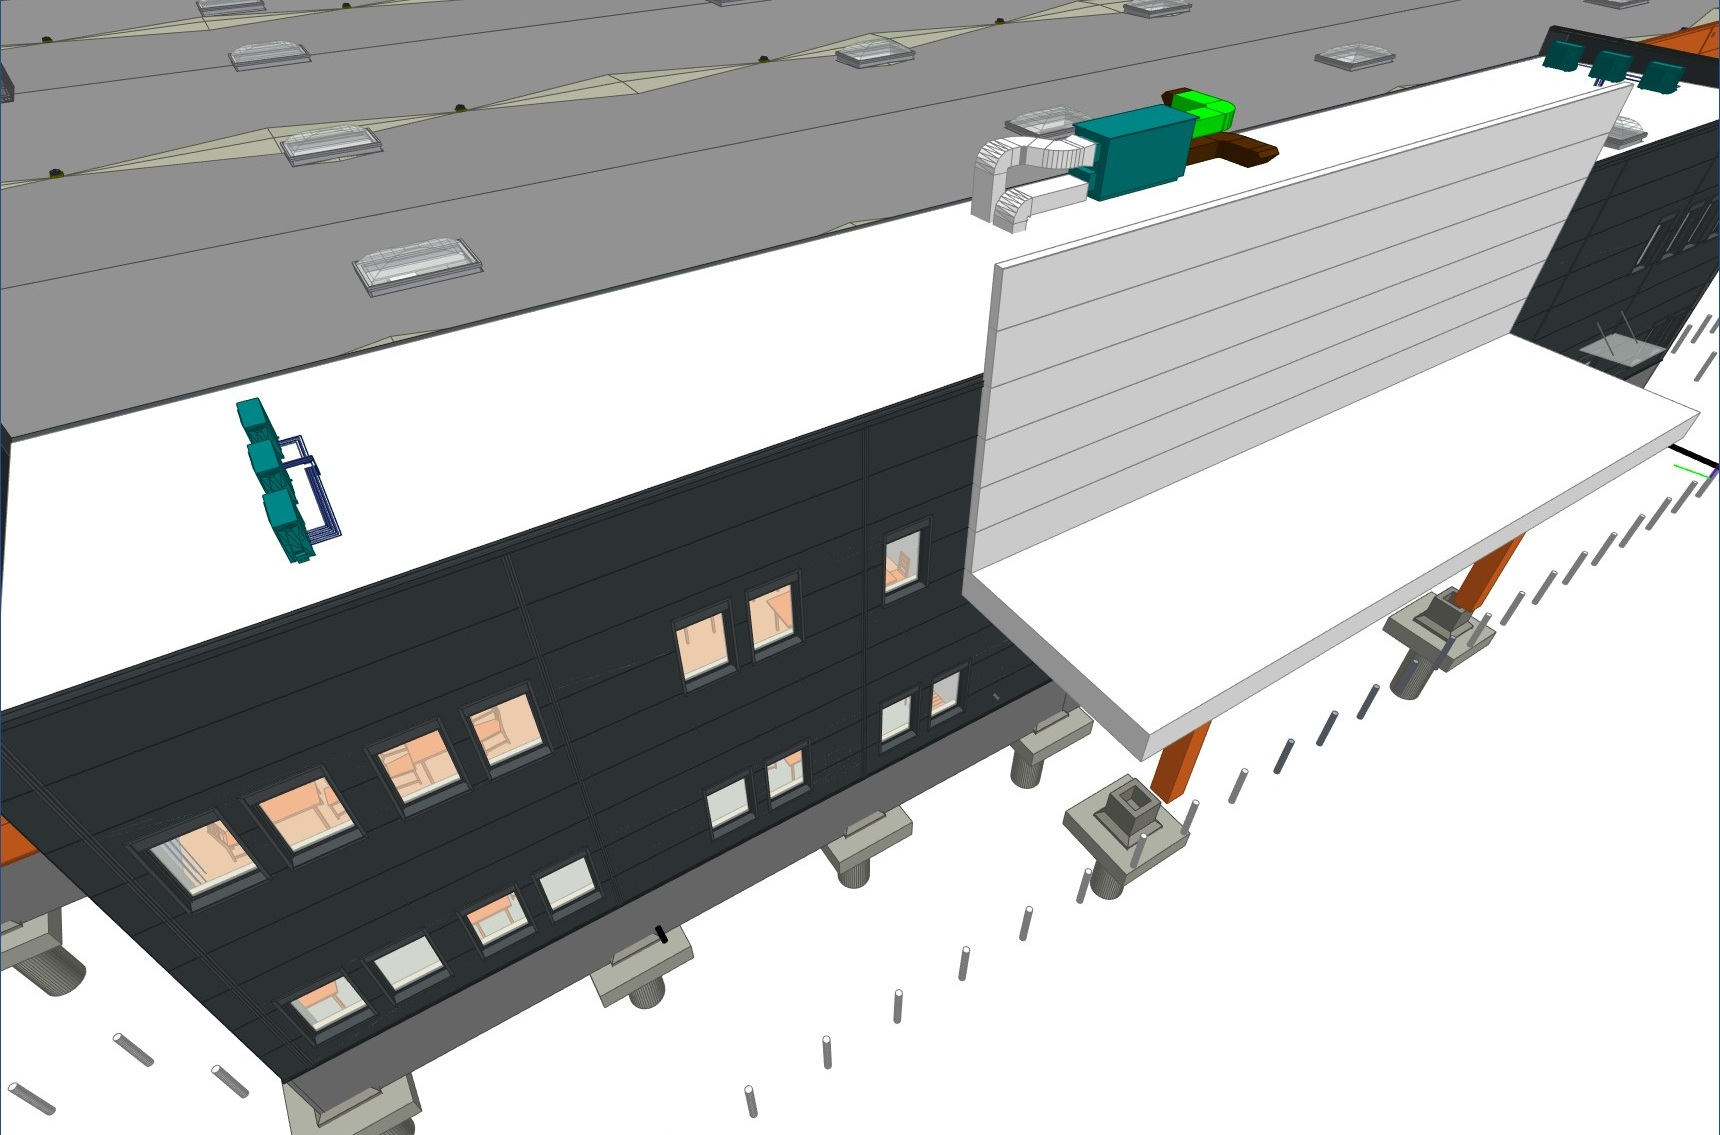
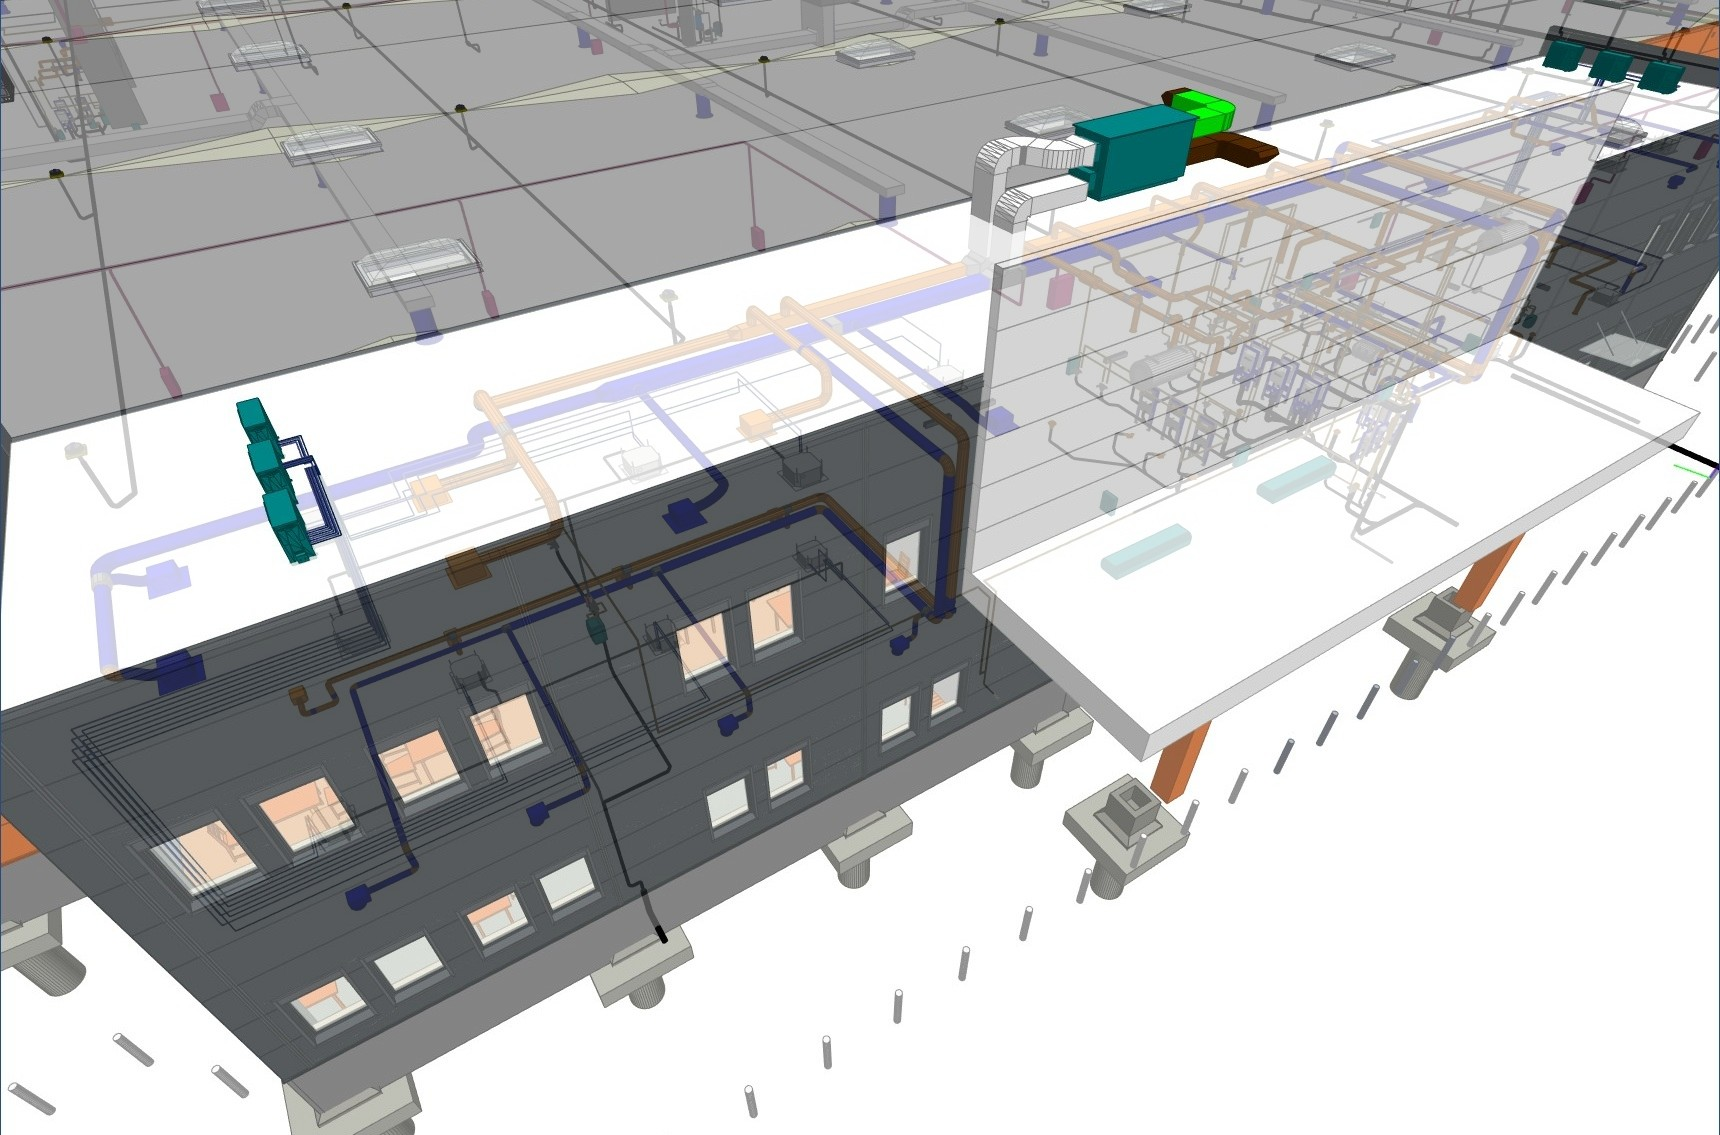
Rendszeroptimalizálás önálló kártyába emelve; BIM-koordináció fotók 20%-os kereszt-blendeléssel (építész+gépész áttűnés)

diff --git a/index.html b/index.html
@@ -444,36 +444,35 @@
      ============================================================ -->
 <section id="markak" class="py-14 lg:py-16 border-y border-line/60 bg-surface/40">
   <div class="max-w-8xl mx-auto px-5 lg:px-8">
-    <div class="flex flex-col lg:flex-row lg:items-center gap-8" data-reveal>
-      <!-- Rendszeroptimalizálás – ISO 52120, márkanév nélkül -->
-      <div class="shrink-0 lg:max-w-xs lg:pr-8 lg:border-r border-line">
-        <div class="flex items-center gap-4">
-          <div class="w-12 h-12 rounded-lg bg-accent/10 grid place-items-center shrink-0">
-            <svg width="22" height="22" fill="none" stroke="currentColor" stroke-width="1.6" viewBox="0 0 24 24"><path d="M12 2v4M12 18v4M4.9 4.9l2.8 2.8M16.3 16.3l2.8 2.8M2 12h4M18 12h4M4.9 19.1l2.8-2.8M16.3 7.7l2.8-2.8"/><circle cx="12" cy="12" r="3.5"/></svg>
-          </div>
-          <div>
-            <div class="font-display font-semibold">Rendszeroptimalizálás</div>
-            <div class="text-xs text-muted font-display tracking-wide">EN ISO 52120-1 szabvány szerint</div>
-          </div>
-        </div>
-        <p class="text-xs text-muted leading-relaxed mt-4">
-          Meglévő épületek fűtési, hűtési és szellőzési rendszereinek szabályozástechnikai
-          felülvizsgálatát és optimalizálását vállaljuk, gyártótól függetlenül, az EN ISO 52120-1
-          szabvány szerint. A felmérés kitér a jelenlegi és az elérhető hatékonysági osztályra,
-          és konkrét modernizációs javaslatokat ad — például nyomásfüggetlen szelepek,
-          igényvezérelt szabályozás, szivattyú-optimalizálás.
-        </p>
-      </div>
 
-      <!-- Alkalmazott technológiák – futószalag (JS tölti fel a 42 márkával) -->
-      <div class="flex-1 min-w-0">
-        <p class="text-xs text-muted mb-3">Rendszerek, melyekkel a legmagasabb mérnöki színvonalon tervezünk.</p>
-        <div class="marquee relative">
-          <div id="brandTrack" class="marquee__track gap-10 pr-10 text-muted/70 font-display font-semibold text-lg"></div>
-          <!-- Szélek elhalványítása -->
-          <div class="absolute inset-y-0 left-0 w-16 bg-gradient-to-r from-base to-transparent pointer-events-none"></div>
-          <div class="absolute inset-y-0 right-0 w-16 bg-gradient-to-l from-base to-transparent pointer-events-none"></div>
+    <!-- Rendszeroptimalizálás – önálló kártya, ISO 52120, márkanév nélkül -->
+    <div class="card rounded-xl p-6 lg:p-8" data-reveal>
+      <div class="flex items-center gap-4 mb-4">
+        <div class="w-12 h-12 rounded-lg bg-accent/10 grid place-items-center shrink-0">
+          <svg width="22" height="22" fill="none" stroke="currentColor" stroke-width="1.6" viewBox="0 0 24 24"><path d="M12 2v4M12 18v4M4.9 4.9l2.8 2.8M16.3 16.3l2.8 2.8M2 12h4M18 12h4M4.9 19.1l2.8-2.8M16.3 7.7l2.8-2.8"/><circle cx="12" cy="12" r="3.5"/></svg>
         </div>
+        <div>
+          <p class="eyebrow">Rendszeroptimalizálás</p>
+          <p class="text-xs text-muted font-display tracking-wide mt-0.5">EN ISO 52120-1 szabvány szerint</p>
+        </div>
+      </div>
+      <p class="text-sm text-muted leading-relaxed">
+        Meglévő épületek fűtési, hűtési és szellőzési rendszereinek szabályozástechnikai
+        felülvizsgálatát és optimalizálását vállaljuk, gyártótól függetlenül, az EN ISO 52120-1
+        szabvány szerint. A felmérés kitér a jelenlegi és az elérhető hatékonysági osztályra,
+        és konkrét modernizációs javaslatokat ad — például nyomásfüggetlen szelepek,
+        igényvezérelt szabályozás, szivattyú-optimalizálás.
+      </p>
+    </div>
+
+    <!-- Alkalmazott technológiák – futószalag (JS tölti fel a 42 márkával) -->
+    <div class="mt-6" data-reveal>
+      <p class="text-xs text-muted mb-3">Rendszerek, melyekkel a legmagasabb mérnöki színvonalon tervezünk.</p>
+      <div class="marquee relative">
+        <div id="brandTrack" class="marquee__track gap-10 pr-10 text-muted/70 font-display font-semibold text-lg"></div>
+        <!-- Szélek elhalványítása -->
+        <div class="absolute inset-y-0 left-0 w-16 bg-gradient-to-r from-base to-transparent pointer-events-none"></div>
+        <div class="absolute inset-y-0 right-0 w-16 bg-gradient-to-l from-base to-transparent pointer-events-none"></div>
       </div>
     </div>
   </div>